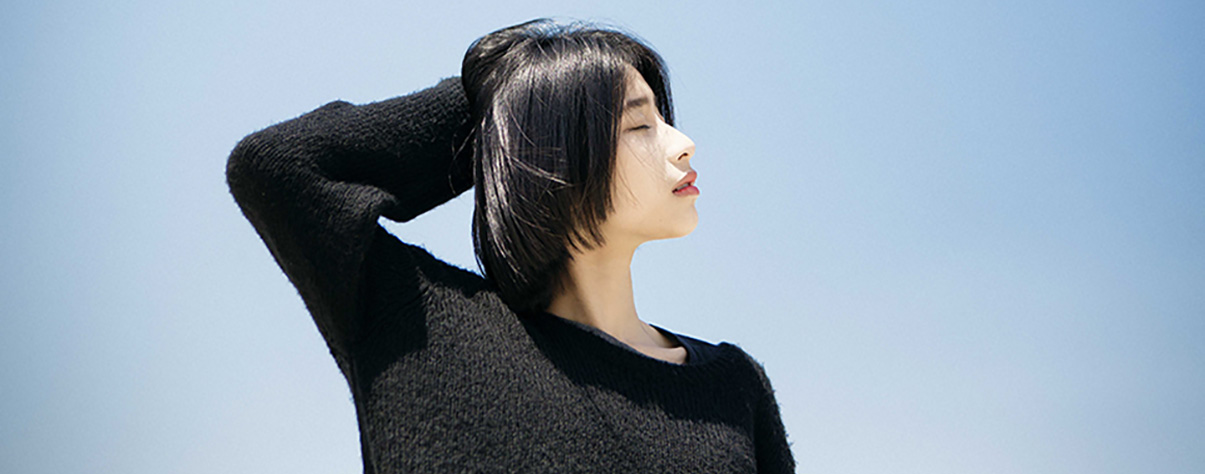
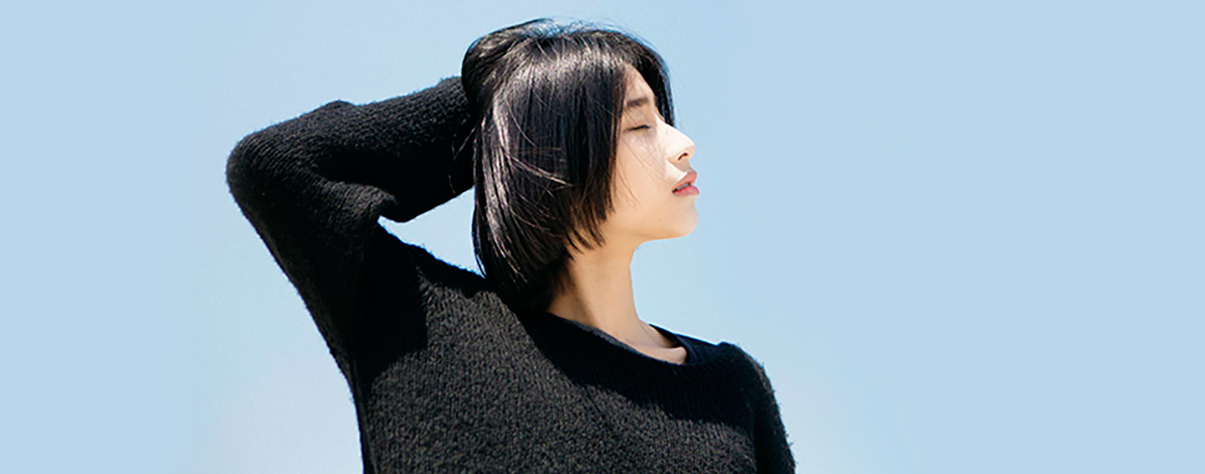
dev_首页第一屏轮播图修改

Changed region(s): [[0.7983, 0.0, 1.0, 1.0], [0.0, 0.0, 0.1228, 1.0], [0.5527, 0.384, 0.5834, 0.4135]]

diff --git a/public/css/index.css b/public/css/index.css
@@ -1,2 +1,2 @@
-nav{position:relative;width:100%}nav .nav-top{height:36px;background-color:#f6f6f6;font-family:"Microsoft YaHei"}nav .nav-top .nav-top-detail{position:relative;width:960px;height:36px;margin:0 auto}nav .nav-top .nav-top-detail ul,nav .nav-top .nav-top-detail li{display:inline-block;cursor:pointer;color:#282828;overflow:hidden}nav .nav-top .nav-top-detail li{padding:0 10px;margin-top:11px}nav .nav-top .nav-top-detail .left{float:left;margin-left:-6px}nav .nav-top .nav-top-detail .left li{padding-left:8px;border-left:2px solid #ebebeb;margin-left:-2px}nav .nav-top .nav-top-detail .right{float:right;position:relative;margin-right:-9px}nav .nav-top .nav-top-detail .right li{padding-left:8px;border-left:2px solid #ebebeb;margin-left:-2px}nav .nav-top .nav-top-detail .right li.mobile{padding-left:25px}nav .nav-top .nav-top-detail .right .i-mobile{display:inline-block;background:url(../img/top_icons.png) no-repeat;width:11px;height:14px;background-position:-20px -40px;margin-right:5px;margin-top:2px;position:absolute;top:8px;left:160px;background-color:#f6f6f6}nav .nav-header{height:70px;background-color:#fff}nav .nav-header em{display:inline-block;float:left;width:58px;height:34px;background:url(../img/sprite.png) no-repeat -135px -81px;transform:scale(1.1);-webkit-transform:scale(1.1);margin-top:16px}nav .nav-header .content{position:relative;width:960px;margin:0 auto}nav .nav-header .content img{position:relative;top:20px}nav .nav-header .content .search-bar{display:inline-block;float:right;position:relative;margin-top:15px}nav .nav-header .content .search-bar input{padding-right:83px;width:309px;height:18px;font-size:14px;padding:10px 66px 10px 10px;border:1px solid #e3e3e3;border-top-right-radius:2px;border-bottom-right-radius:2px}nav .nav-header .content .search-bar input:focus{border:1px solid #1fb495}nav .nav-header .content .search-bar .search-btn{position:absolute;box-sizing:border-box;top:0;right:0;width:70px;height:40px;cursor:pointer;text-align:center;line-height:40px;border:1px solid #e3e3e3;color:#999;border-top-right-radius:2px;border-bottom-right-radius:2px}nav .nav-header .content .search-bar .search-btn:hover{background-color:#38c9ab;color:#fff}nav .nav-header .content .search-bar .search-btn-foucs{background-color:#1fb495;border:1px solid #38c9ab;color:#fff}nav .nav-bar{position:relative;background-color:#1fb495;border-bottom:1px solid #19b494;width:100%;height:39px;line-height:40px;box-shadow:0 2px 2px rgba(0,0,0,0.1);-webkit-box-shadow:0 2px 2px rgba(0,0,0,0.1);z-index:3}nav .nav-bar .nav-bar-menu{width:960px;margin:0 auto;font-size:16px;overflow:hidden}nav .nav-bar .nav-bar-menu span{display:inline-block;height:40px;padding:0 25px;line-height:40px;border-right:1px solid #29a98f;color:#fff}nav .nav-bar .nav-bar-menu span.left{float:left}nav .nav-bar .nav-bar-menu span.right{float:right;margin-right:0;border-left:1px solid #29a98f}nav .nav-bar .nav-bar-menu span.right i{display:inline-block;width:16px;height:16px;margin-right:8px;position:relative;top:2px;background:url(../img/ren_icon.png) no-repeat}nav .nav-bar .nav-bar-menu .active{background-color:#38c9ab}nav .nav-bar .nav-bar-menu span.index{border-left:1px solid #29a98f;padding-left:20px;padding-right:61px}nav .nav-bar .nav-bar-menu span:hover{cursor:pointer;background-color:#38c9ab}nav .nav-bar .nav-bar-menu span.span-hover{cursor:pointer;background-color:#38c9ab}nav .nav-bar .nav-bar-layout{display:none;position:absolute;z-index:999999;top:40px;height:148px;width:100%;background-color:#f1f1f1;background-color:rgba(241,241,241,0.9);transition:all .2s ease-in;-webkit-box-shadow:0 1px 2px rgba(0,0,0,0.6);-moz-box-shadow:0 1px 2px rgba(0,0,0,0.6);box-shadow:0 1px 2px rgba(0,0,0,0.6)}nav .nav-bar .nav-bar-layout .category{width:960px;position:relative;margin:0 auto}nav .nav-bar .nav-bar-layout .category ul{display:inline-block;float:left;width:114px;height:148px;border-right:1px solid #acadad;vertical-align:top}nav .nav-bar .nav-bar-layout .category ul:first-child{margin-left:83px;border-left:1px solid #acadad}nav .nav-bar .nav-bar-layout .category ul:last-child{position:absolute;right:0;width:138px;border-left:1px solid #acadad;border-right:1px solid #acadad}nav .nav-bar .nav-bar-layout .category ul:last-child li{width:138px}nav .nav-bar .nav-bar-layout .category ul li{height:30px;width:114px;text-align:center}nav .nav-bar .nav-bar-layout .category ul li a{line-height:21px;font-size:14px;display:inline-block}nav .nav-bar .nav-bar-layout .category ul li a i{margin-left:6px;margin-right:6px}nav .nav-bar .nav-bar-layout .category ul li:first-child{margin-top:12px}nav .nav-bar .nav-bar-layout .category ul a:hover i{color:#1fb495;border-bottom:2px solid #1fb495}nav .nav-bar .nav-bar-layout .category ul a:hover i.love{color:red;border-bottom:2px red solid}nav .nav-bar .nav-bar-layout .category ul.ul-active{background-color:rgba(241,241,241,0.98)}@media screen and (min-width: 1400px){nav .nav-top .nav-top-detail{width:1205px}nav .nav-header .content{width:1205px}nav .nav-bar .nav-bar-menu{width:1205px}nav .nav-bar .nav-bar-layout .category{width:1205px}}html,body{height:100%;font-family:"Microsoft YaHei";background-color:#e1ebed}.container{width:100%;height:100%}.wrap1{width:100%}.wrap1 .slider div.flexslider{margin:0px auto 20px;position:relative;width:100%;height:420px;overflow:hidden;zoom:1}.wrap1 .slider div.flexslider ul.slides li{width:100%;height:420px}.wrap1 .slider div.flexslider ul.slides li.bg1{background-color:#77aed0}.wrap1 .slider div.flexslider ul.slides li.bg2{background-color:#EBE0DE}.wrap1 .slider div.flexslider ul.slides li.bg3{background-color:#B19336}.wrap1 .slider div.flexslider ul.slides li span{width:960px;height:420px}.wrap1 .slider div.flexslider ul.slides li span.slider1{background:url(../img/slider/slider1_m.jpg) no-repeat center center}.wrap1 .slider div.flexslider ul.slides li span.slider2{background:url(../img/slider/slider2_m.jpg) no-repeat center center}.wrap1 .slider div.flexslider ul.slides li span.slider3{background:url(../img/slider/slider3_m.jpg) no-repeat center center}.wrap1 .slider div.flexslider ol.flex-control-nav{width:100%;position:absolute;bottom:18px;text-align:center;cursor:default;z-index:1}.wrap1 .slider div.flexslider ol.flex-control-nav li{margin:0 2px;display:inline-block;zoom:1;*display:inline}.wrap1 .slider div.flexslider ol.flex-control-nav li a{background:url(../img/slider/dot.png) no-repeat 0 -16px;display:block;height:16px;overflow:hidden;text-indent:-99em;width:16px;cursor:pointer}.wrap1 .slider div.flexslider .flex-control-paging li a.flex-active,.wrap1 .slider div.flexslider .flex-control-paging li.active a{background-position:0 0}.category{position:relative;top:-440px}.category .layout{position:relative;width:960px;left:50%;margin-left:-480px}.album-category{width:196px;height:414px;position:relative;z-index:2;left:50%;margin-left:-480px;background-color:rgba(31,180,149,0.8);border:1px solid #29a98f;border-top:1px solid #1fb495;padding:2px}.album-category li{width:169px;height:69px;padding-left:15px;padding-right:15px}.album-category li a{color:#fff}.album-category li.active{background-color:#fff}.album-category li.active a{color:#656565}.album-category li.active .tag{border-bottom:1px rgba(31,180,149,0.8) solid}.album-category li .title{box-sizing:content-box;font-size:15px;font-weight:bold;vertical-align:top;padding-top:15px;padding-bottom:5px}.album-category li .title a:hover{color:#1fb495;border-bottom:2px #1fb495 solid}.album-category li .tag{margin-top:5px;margin-bottom:5px;border-bottom:1px #fff dotted;cursor:default}.album-category li .tag span{padding:3px;padding-bottom:11px}.album-category li .tag span:first-child{padding-left:0}.album-category li .tag a:hover{color:#1fb495;border-bottom:2px #1fb495 solid}.album-category li:last-child .tag{border-bottom:0px #fff dotted}.album-category-detail{display:none;position:absolute;z-index:2;top:0px;left:202px;width:600px;height:414px;background-color:#fff;-webkit-background-clip:content-box;-moz-background-clip:content-box;background-clip:content-box;border:3px rgba(31,180,149,0.8) solid;border-left:0}.album-category-detail li{display:none}.wrap2{position:relative;top:-466px;width:100%;padding-bottom:50px;background-color:#e1ebed;font-size:20px}.wrap2>div{position:relative;width:1003px;left:50%;margin-left:-480px;margin-top:80px;padding-top:80px;overflow:hidden}.wrap2>div .nav-category{position:absolute;top:0;width:960px;height:35px;background-color:#f3f3f3;border:1px solid #ddd;border-radius:1px}.wrap2>div .nav-category span.name{display:inline-block;width:120px;height:35px;font-size:16px;line-height:35px;text-align:center;font-weight:bolder;background-color:#1fb495;border-bottom-left-radius:1px;border-top-left-radius:1px;color:#fff}.wrap2>div .nav-category span.name:hover{background-color:#38c9ab;cursor:default}.wrap2>div .nav-category a.more{position:relative;display:inline-block;margin-left:770px;top:-1px;width:50px;height:18px;line-height:18px;text-align:center;font-size:12px;color:#1fb495}.wrap2>div .nav-category a.more:hover{background-color:#38c9ab;border:1px solid #38c9ab;border-radius:12px;color:#fff}.wrap2>div ul{overflow:hidden;height:400px}.wrap2>div ul li{float:left;width:157.6px;height:226px;padding:0 43px 13px 0}.wrap2>div ul li div.album-wrap{width:155px;font:12px/1.5 Tahoma, Helvetica, Arial, sans-serif}.wrap2>div ul li div.album-wrap .album-frame{position:relative;width:155px;height:155px;background:url(../img/album_frame.png) no-repeat 0 0;padding:1px 0 0 1px;background-position:-25px -209px}.wrap2>div ul li div.album-wrap .album-frame .count{position:absolute;right:15px;bottom:15px;height:22px;line-height:22px;color:#fff;-webkit-border-radius:3px;border-radius:3px;padding:0 11px;cursor:pointer;vertical-align:middle;background:url(../img/count_bg.png) repeat-x 0 0;_background:#555}.wrap2>div ul li div.album-wrap .album-detail .album-title{margin-top:6px;color:#555}.wrap2>div ul li div.album-wrap .album-detail .album-date{margin-top:4px;width:155px;white-space:nowrap;color:#888;cursor:default}.wrap3{position:relative;top:-502px;width:100%;height:450px;background-color:#fff}.wrap3 .sub-wrap{position:relative;margin:0 auto;width:380px;height:300px;text-align:center;top:56px}.wrap3 .sub-wrap .logo{width:111px;height:73px;background:url(../img/sprite.png) no-repeat;margin:0 auto;transform:scale(0.9);-webkit-transform:scale(0.9)}.wrap3 .sub-wrap .text{margin-top:72px;margin-bottom:45px;font-size:20px;font-family:"FangSong"}.wrap3 .sub-wrap .QR-code{width:285px;height:108px;background:url(../img/sprite.png) no-repeat 0 -159px;margin:0 auto}.wrap3 .sub-wrap .QR-text{font-family:"FangSong";font-size:14px}.wrap3 .sub-wrap .QR-text span{margin:5px}.wrap3 .line-bt{position:absolute;bottom:0;width:100%;background-color:#f7f7f7}.wrap3 .line-bt:before{content:"";display:inline-block;padding-bottom:0.78%;width:0}@media screen and (min-width: 1400px){.wrap1 .album-category{margin-left:-602.5px}.wrap1 .slider div.flexslider{height:482px}.wrap1 .slider div.flexslider ul.slides li{height:474px}.wrap1 .slider div.flexslider ul.slides li span{width:1205px;height:474px}.wrap1 .slider div.flexslider ul.slides li span.slider1{background:url(../img/slider/slider1.jpg) no-repeat center center}.wrap1 .slider div.flexslider ul.slides li span.slider2{background:url(../img/slider/slider2.jpg) no-repeat center center}.wrap1 .slider div.flexslider ul.slides li span.slider3{background:url(../img/slider/slider3.jpg) no-repeat center center}.wrap1 .slides-control .content{width:1205px}.category{top:-502px}.category .layout{width:1205px;margin-left:-602.5px}.album-category{height:468px}.album-category li{height:78px}.album-category li .title{padding-top:18px}.album-category li .tag span{padding-bottom:17px}.album-category-detail{height:468px}.wrap2{top:-506px}.wrap2>div{width:1252px;margin-left:-602.5px}.wrap2>div .nav-category{width:1203px}.wrap2>div .nav-category a.more{margin-left:1015px}.wrap2>div ul{height:475px}.wrap2>div ul li{padding:8px 51px 16px 0}.wrap3{height:510px}.wrap3 .sub-wrap{top:82px}.wrap3 .sub-wrap .logo{transform:scale(1.1);-webkit-transform:scale(1.1)}.wrap3 .sub-wrap .text{font-size:18px}}footer{width:100%;position:relative;top:-502px;height:160px;background-color:#e1ebed}footer .wrap{display:inline-block;position:absolute;width:960px;overflow:hidden;left:50%;margin-left:-480px;top:50%;margin-top:-50px}footer .wrap .left{float:left;width:390px;height:100px}footer .wrap .left .title{overflow:hidden;position:relative;margin-bottom:5px;margin-top:13px}footer .wrap .left .title img{position:relative;left:12px}footer .wrap .left .info{margin-left:10px;font-size:14px;font-family:"FangSong";line-height:30px;font-weight:200;cursor:default}footer .wrap .middle{position:absolute;width:300px;height:100px;left:50%;margin-left:-150px;text-align:center;padding-top:30px}footer .wrap .middle a{background-color:rgba(0,0,0,0.2);display:inline-block;font-family:"Ionicons";color:rgba(255,255,255,0.92);font-size:22px;height:40px;width:40px;line-height:40px;border-radius:20px;overflow:hidden;text-align:center;margin-right:6px;text-shadow:0 1px 1px rgba(0,0,0,0.3)}footer .wrap .middle a:hover{background-color:#1fb495}footer .wrap .middle a i{transform:scale(0.9);-webkit-transform:scale(0.9)}footer .wrap .middle a .fa-qq{transform:scale(0.8);-webkit-transform:scale(0.8)}footer .wrap .right{float:right;width:200px;height:100px}footer .wrap .right .info{margin-left:10px;font-size:14px;font-family:"FangSong";line-height:30px;font-weight:200;cursor:default}footer .wrap .right .info a:hover{background-color:#1fb495;color:#fff}@media screen and (min-width: 1400px){footer .wrap{width:1205px;margin-left:-602.5px}}
+nav{position:relative;width:100%}nav .nav-top{height:36px;background-color:#f6f6f6;font-family:"Microsoft YaHei"}nav .nav-top .nav-top-detail{position:relative;width:960px;height:36px;margin:0 auto}nav .nav-top .nav-top-detail ul,nav .nav-top .nav-top-detail li{display:inline-block;cursor:pointer;color:#282828;overflow:hidden}nav .nav-top .nav-top-detail li{padding:0 10px;margin-top:11px}nav .nav-top .nav-top-detail .left{float:left;margin-left:-6px}nav .nav-top .nav-top-detail .left li{padding-left:8px;border-left:2px solid #ebebeb;margin-left:-2px}nav .nav-top .nav-top-detail .right{float:right;position:relative;margin-right:-9px}nav .nav-top .nav-top-detail .right li{padding-left:8px;border-left:2px solid #ebebeb;margin-left:-2px}nav .nav-top .nav-top-detail .right li.mobile{padding-left:25px}nav .nav-top .nav-top-detail .right .i-mobile{display:inline-block;background:url(../img/top_icons.png) no-repeat;width:11px;height:14px;background-position:-20px -40px;margin-right:5px;margin-top:2px;position:absolute;top:8px;left:160px;background-color:#f6f6f6}nav .nav-header{height:70px;background-color:#fff}nav .nav-header em{display:inline-block;float:left;width:58px;height:34px;background:url(../img/sprite.png) no-repeat -135px -81px;transform:scale(1.1);-webkit-transform:scale(1.1);margin-top:16px}nav .nav-header .content{position:relative;width:960px;margin:0 auto}nav .nav-header .content img{position:relative;top:20px}nav .nav-header .content .search-bar{display:inline-block;float:right;position:relative;margin-top:15px}nav .nav-header .content .search-bar input{padding-right:83px;width:309px;height:18px;font-size:14px;padding:10px 66px 10px 10px;border:1px solid #e3e3e3;border-top-right-radius:2px;border-bottom-right-radius:2px}nav .nav-header .content .search-bar input:focus{border:1px solid #1fb495}nav .nav-header .content .search-bar .search-btn{position:absolute;box-sizing:border-box;top:0;right:0;width:70px;height:40px;cursor:pointer;text-align:center;line-height:40px;border:1px solid #e3e3e3;color:#999;border-top-right-radius:2px;border-bottom-right-radius:2px}nav .nav-header .content .search-bar .search-btn:hover{background-color:#38c9ab;color:#fff}nav .nav-header .content .search-bar .search-btn-foucs{background-color:#1fb495;border:1px solid #38c9ab;color:#fff}nav .nav-bar{position:relative;background-color:#1fb495;border-bottom:1px solid #19b494;width:100%;height:39px;line-height:40px;box-shadow:0 2px 2px rgba(0,0,0,0.1);-webkit-box-shadow:0 2px 2px rgba(0,0,0,0.1);z-index:3}nav .nav-bar .nav-bar-menu{width:960px;margin:0 auto;font-size:16px;overflow:hidden}nav .nav-bar .nav-bar-menu span{display:inline-block;height:40px;padding:0 25px;line-height:40px;border-right:1px solid #29a98f;color:#fff}nav .nav-bar .nav-bar-menu span.left{float:left}nav .nav-bar .nav-bar-menu span.right{float:right;margin-right:0;border-left:1px solid #29a98f}nav .nav-bar .nav-bar-menu span.right i{display:inline-block;width:16px;height:16px;margin-right:8px;position:relative;top:2px;background:url(../img/ren_icon.png) no-repeat}nav .nav-bar .nav-bar-menu .active{background-color:#38c9ab}nav .nav-bar .nav-bar-menu span.index{border-left:1px solid #29a98f;padding-left:20px;padding-right:61px}nav .nav-bar .nav-bar-menu span:hover{cursor:pointer;background-color:#38c9ab}nav .nav-bar .nav-bar-menu span.span-hover{cursor:pointer;background-color:#38c9ab}nav .nav-bar .nav-bar-layout{display:none;position:absolute;z-index:999999;top:40px;height:148px;width:100%;background-color:#f1f1f1;background-color:rgba(241,241,241,0.9);transition:all .2s ease-in;-webkit-box-shadow:0 1px 2px rgba(0,0,0,0.6);-moz-box-shadow:0 1px 2px rgba(0,0,0,0.6);box-shadow:0 1px 2px rgba(0,0,0,0.6)}nav .nav-bar .nav-bar-layout .category{width:960px;position:relative;margin:0 auto}nav .nav-bar .nav-bar-layout .category ul{display:inline-block;float:left;width:114px;height:148px;border-right:1px solid #acadad;vertical-align:top}nav .nav-bar .nav-bar-layout .category ul:first-child{margin-left:83px;border-left:1px solid #acadad}nav .nav-bar .nav-bar-layout .category ul:last-child{position:absolute;right:0;width:138px;border-left:1px solid #acadad;border-right:1px solid #acadad}nav .nav-bar .nav-bar-layout .category ul:last-child li{width:138px}nav .nav-bar .nav-bar-layout .category ul li{height:30px;width:114px;text-align:center}nav .nav-bar .nav-bar-layout .category ul li a{line-height:21px;font-size:14px;display:inline-block}nav .nav-bar .nav-bar-layout .category ul li a i{margin-left:6px;margin-right:6px}nav .nav-bar .nav-bar-layout .category ul li:first-child{margin-top:12px}nav .nav-bar .nav-bar-layout .category ul a:hover i{color:#1fb495;border-bottom:2px solid #1fb495}nav .nav-bar .nav-bar-layout .category ul a:hover i.love{color:red;border-bottom:2px red solid}nav .nav-bar .nav-bar-layout .category ul.ul-active{background-color:rgba(241,241,241,0.98)}@media screen and (min-width: 1400px){nav .nav-top .nav-top-detail{width:1205px}nav .nav-header .content{width:1205px}nav .nav-bar .nav-bar-menu{width:1205px}nav .nav-bar .nav-bar-layout .category{width:1205px}}html,body{height:100%;font-family:"Microsoft YaHei";background-color:#e1ebed}.container{width:100%;height:100%}.wrap1{width:100%}.wrap1 .slider div.flexslider{margin:0px auto 20px;position:relative;width:100%;height:420px;overflow:hidden;zoom:1}.wrap1 .slider div.flexslider ul.slides li{width:100%;height:420px}.wrap1 .slider div.flexslider ul.slides li.bg1{background-color:#BBD6EB}.wrap1 .slider div.flexslider ul.slides li.bg2{background-color:#EBE0DE}.wrap1 .slider div.flexslider ul.slides li.bg3{background-color:#B19336}.wrap1 .slider div.flexslider ul.slides li span{width:960px;height:420px}.wrap1 .slider div.flexslider ul.slides li span.slider1{background:url(../img/slider/slider1_m.jpg) no-repeat center center}.wrap1 .slider div.flexslider ul.slides li span.slider2{background:url(../img/slider/slider2_m.jpg) no-repeat center center}.wrap1 .slider div.flexslider ul.slides li span.slider3{background:url(../img/slider/slider3_m.jpg) no-repeat center center}.wrap1 .slider div.flexslider ol.flex-control-nav{width:100%;position:absolute;bottom:18px;text-align:center;cursor:default;z-index:1}.wrap1 .slider div.flexslider ol.flex-control-nav li{margin:0 2px;display:inline-block;zoom:1;*display:inline}.wrap1 .slider div.flexslider ol.flex-control-nav li a{background:url(../img/slider/dot.png) no-repeat 0 -16px;display:block;height:16px;overflow:hidden;text-indent:-99em;width:16px;cursor:pointer}.wrap1 .slider div.flexslider .flex-control-paging li a.flex-active,.wrap1 .slider div.flexslider .flex-control-paging li.active a{background-position:0 0}.category{position:relative;top:-440px}.category .layout{position:relative;width:960px;left:50%;margin-left:-480px}.album-category{width:196px;height:414px;position:relative;z-index:2;left:50%;margin-left:-480px;background-color:rgba(31,180,149,0.8);border:1px solid #29a98f;border-top:1px solid #1fb495;padding:2px}.album-category li{width:169px;height:69px;padding-left:15px;padding-right:15px}.album-category li a{color:#fff}.album-category li.active{background-color:#fff}.album-category li.active a{color:#656565}.album-category li.active .tag{border-bottom:1px rgba(31,180,149,0.8) solid}.album-category li .title{box-sizing:content-box;font-size:15px;font-weight:bold;vertical-align:top;padding-top:15px;padding-bottom:5px}.album-category li .title a:hover{color:#1fb495;border-bottom:2px #1fb495 solid}.album-category li .tag{margin-top:5px;margin-bottom:5px;border-bottom:1px #fff dotted;cursor:default}.album-category li .tag span{padding:3px;padding-bottom:11px}.album-category li .tag span:first-child{padding-left:0}.album-category li .tag a:hover{color:#1fb495;border-bottom:2px #1fb495 solid}.album-category li:last-child .tag{border-bottom:0px #fff dotted}.album-category-detail{display:none;position:absolute;z-index:2;top:0px;left:202px;width:600px;height:414px;background-color:#fff;-webkit-background-clip:content-box;-moz-background-clip:content-box;background-clip:content-box;border:3px rgba(31,180,149,0.8) solid;border-left:0}.album-category-detail li{display:none}.wrap2{position:relative;top:-466px;width:100%;padding-bottom:50px;background-color:#e1ebed;font-size:20px}.wrap2>div{position:relative;width:1003px;left:50%;margin-left:-480px;margin-top:80px;padding-top:80px;overflow:hidden}.wrap2>div .nav-category{position:absolute;top:0;width:960px;height:35px;background-color:#f3f3f3;border:1px solid #ddd;border-radius:1px}.wrap2>div .nav-category span.name{display:inline-block;width:120px;height:35px;font-size:16px;line-height:35px;text-align:center;font-weight:bolder;background-color:#1fb495;border-bottom-left-radius:1px;border-top-left-radius:1px;color:#fff}.wrap2>div .nav-category span.name:hover{background-color:#38c9ab;cursor:default}.wrap2>div .nav-category a.more{position:relative;display:inline-block;margin-left:770px;top:-1px;width:50px;height:18px;line-height:18px;text-align:center;font-size:12px;color:#1fb495}.wrap2>div .nav-category a.more:hover{background-color:#38c9ab;border:1px solid #38c9ab;border-radius:12px;color:#fff}.wrap2>div ul{overflow:hidden;height:400px}.wrap2>div ul li{float:left;width:157.6px;height:226px;padding:0 43px 13px 0}.wrap2>div ul li div.album-wrap{width:155px;font:12px/1.5 Tahoma, Helvetica, Arial, sans-serif}.wrap2>div ul li div.album-wrap .album-frame{position:relative;width:155px;height:155px;background:url(../img/album_frame.png) no-repeat 0 0;padding:1px 0 0 1px;background-position:-25px -209px}.wrap2>div ul li div.album-wrap .album-frame .count{position:absolute;right:15px;bottom:15px;height:22px;line-height:22px;color:#fff;-webkit-border-radius:3px;border-radius:3px;padding:0 11px;cursor:pointer;vertical-align:middle;background:url(../img/count_bg.png) repeat-x 0 0;_background:#555}.wrap2>div ul li div.album-wrap .album-detail .album-title{margin-top:6px;color:#555}.wrap2>div ul li div.album-wrap .album-detail .album-date{margin-top:4px;width:155px;white-space:nowrap;color:#888;cursor:default}.wrap3{position:relative;top:-502px;width:100%;height:450px;background-color:#fff}.wrap3 .sub-wrap{position:relative;margin:0 auto;width:380px;height:300px;text-align:center;top:56px}.wrap3 .sub-wrap .logo{width:111px;height:73px;background:url(../img/sprite.png) no-repeat;margin:0 auto;transform:scale(0.9);-webkit-transform:scale(0.9)}.wrap3 .sub-wrap .text{margin-top:72px;margin-bottom:45px;font-size:20px;font-family:"FangSong"}.wrap3 .sub-wrap .QR-code{width:285px;height:108px;background:url(../img/sprite.png) no-repeat 0 -159px;margin:0 auto}.wrap3 .sub-wrap .QR-text{font-family:"FangSong";font-size:14px}.wrap3 .sub-wrap .QR-text span{margin:5px}.wrap3 .line-bt{position:absolute;bottom:0;width:100%;background-color:#f7f7f7}.wrap3 .line-bt:before{content:"";display:inline-block;padding-bottom:0.78%;width:0}@media screen and (min-width: 1400px){.wrap1 .album-category{margin-left:-602.5px}.wrap1 .slider div.flexslider{height:482px}.wrap1 .slider div.flexslider ul.slides li{height:474px}.wrap1 .slider div.flexslider ul.slides li span{width:1205px;height:474px}.wrap1 .slider div.flexslider ul.slides li span.slider1{background:url(../img/slider/slider1.jpg) no-repeat center center}.wrap1 .slider div.flexslider ul.slides li span.slider2{background:url(../img/slider/slider2.jpg) no-repeat center center}.wrap1 .slider div.flexslider ul.slides li span.slider3{background:url(../img/slider/slider3.jpg) no-repeat center center}.wrap1 .slides-control .content{width:1205px}.category{top:-502px}.category .layout{width:1205px;margin-left:-602.5px}.album-category{height:468px}.album-category li{height:78px}.album-category li .title{padding-top:18px}.album-category li .tag span{padding-bottom:17px}.album-category-detail{height:468px}.wrap2{top:-506px}.wrap2>div{width:1252px;margin-left:-602.5px}.wrap2>div .nav-category{width:1203px}.wrap2>div .nav-category a.more{margin-left:1015px}.wrap2>div ul{height:475px}.wrap2>div ul li{padding:8px 51px 16px 0}.wrap3{height:510px}.wrap3 .sub-wrap{top:82px}.wrap3 .sub-wrap .logo{transform:scale(1.1);-webkit-transform:scale(1.1)}.wrap3 .sub-wrap .text{font-size:18px}}footer{width:100%;position:relative;top:-502px;height:160px;background-color:#e1ebed}footer .wrap{display:inline-block;position:absolute;width:960px;overflow:hidden;left:50%;margin-left:-480px;top:50%;margin-top:-50px}footer .wrap .left{float:left;width:390px;height:100px}footer .wrap .left .title{overflow:hidden;position:relative;margin-bottom:5px;margin-top:13px}footer .wrap .left .title img{position:relative;left:12px}footer .wrap .left .info{margin-left:10px;font-size:14px;font-family:"FangSong";line-height:30px;font-weight:200;cursor:default}footer .wrap .middle{position:absolute;width:300px;height:100px;left:50%;margin-left:-150px;text-align:center;padding-top:30px}footer .wrap .middle a{background-color:rgba(0,0,0,0.2);display:inline-block;font-family:"Ionicons";color:rgba(255,255,255,0.92);font-size:22px;height:40px;width:40px;line-height:40px;border-radius:20px;overflow:hidden;text-align:center;margin-right:6px;text-shadow:0 1px 1px rgba(0,0,0,0.3)}footer .wrap .middle a:hover{background-color:#1fb495}footer .wrap .middle a i{transform:scale(0.9);-webkit-transform:scale(0.9)}footer .wrap .middle a .fa-qq{transform:scale(0.8);-webkit-transform:scale(0.8)}footer .wrap .right{float:right;width:200px;height:100px}footer .wrap .right .info{margin-left:10px;font-size:14px;font-family:"FangSong";line-height:30px;font-weight:200;cursor:default}footer .wrap .right .info a:hover{background-color:#1fb495;color:#fff}@media screen and (min-width: 1400px){footer .wrap{width:1205px;margin-left:-602.5px}}
 /*# sourceMappingURL=index.css.map */

diff --git a/public/scss/_middle_index.scss b/public/scss/_middle_index.scss
@@ -26,7 +26,7 @@ body {
 			ul.slides li {
 				width: 100%;
 				height: 420px;
-				&.bg1 {background-color: #77aed0;}
+				&.bg1 {background-color: #BBD6EB;}
 				&.bg2 {background-color: #EBE0DE;}
 				&.bg3 {background-color: #B19336;}
 				span {
